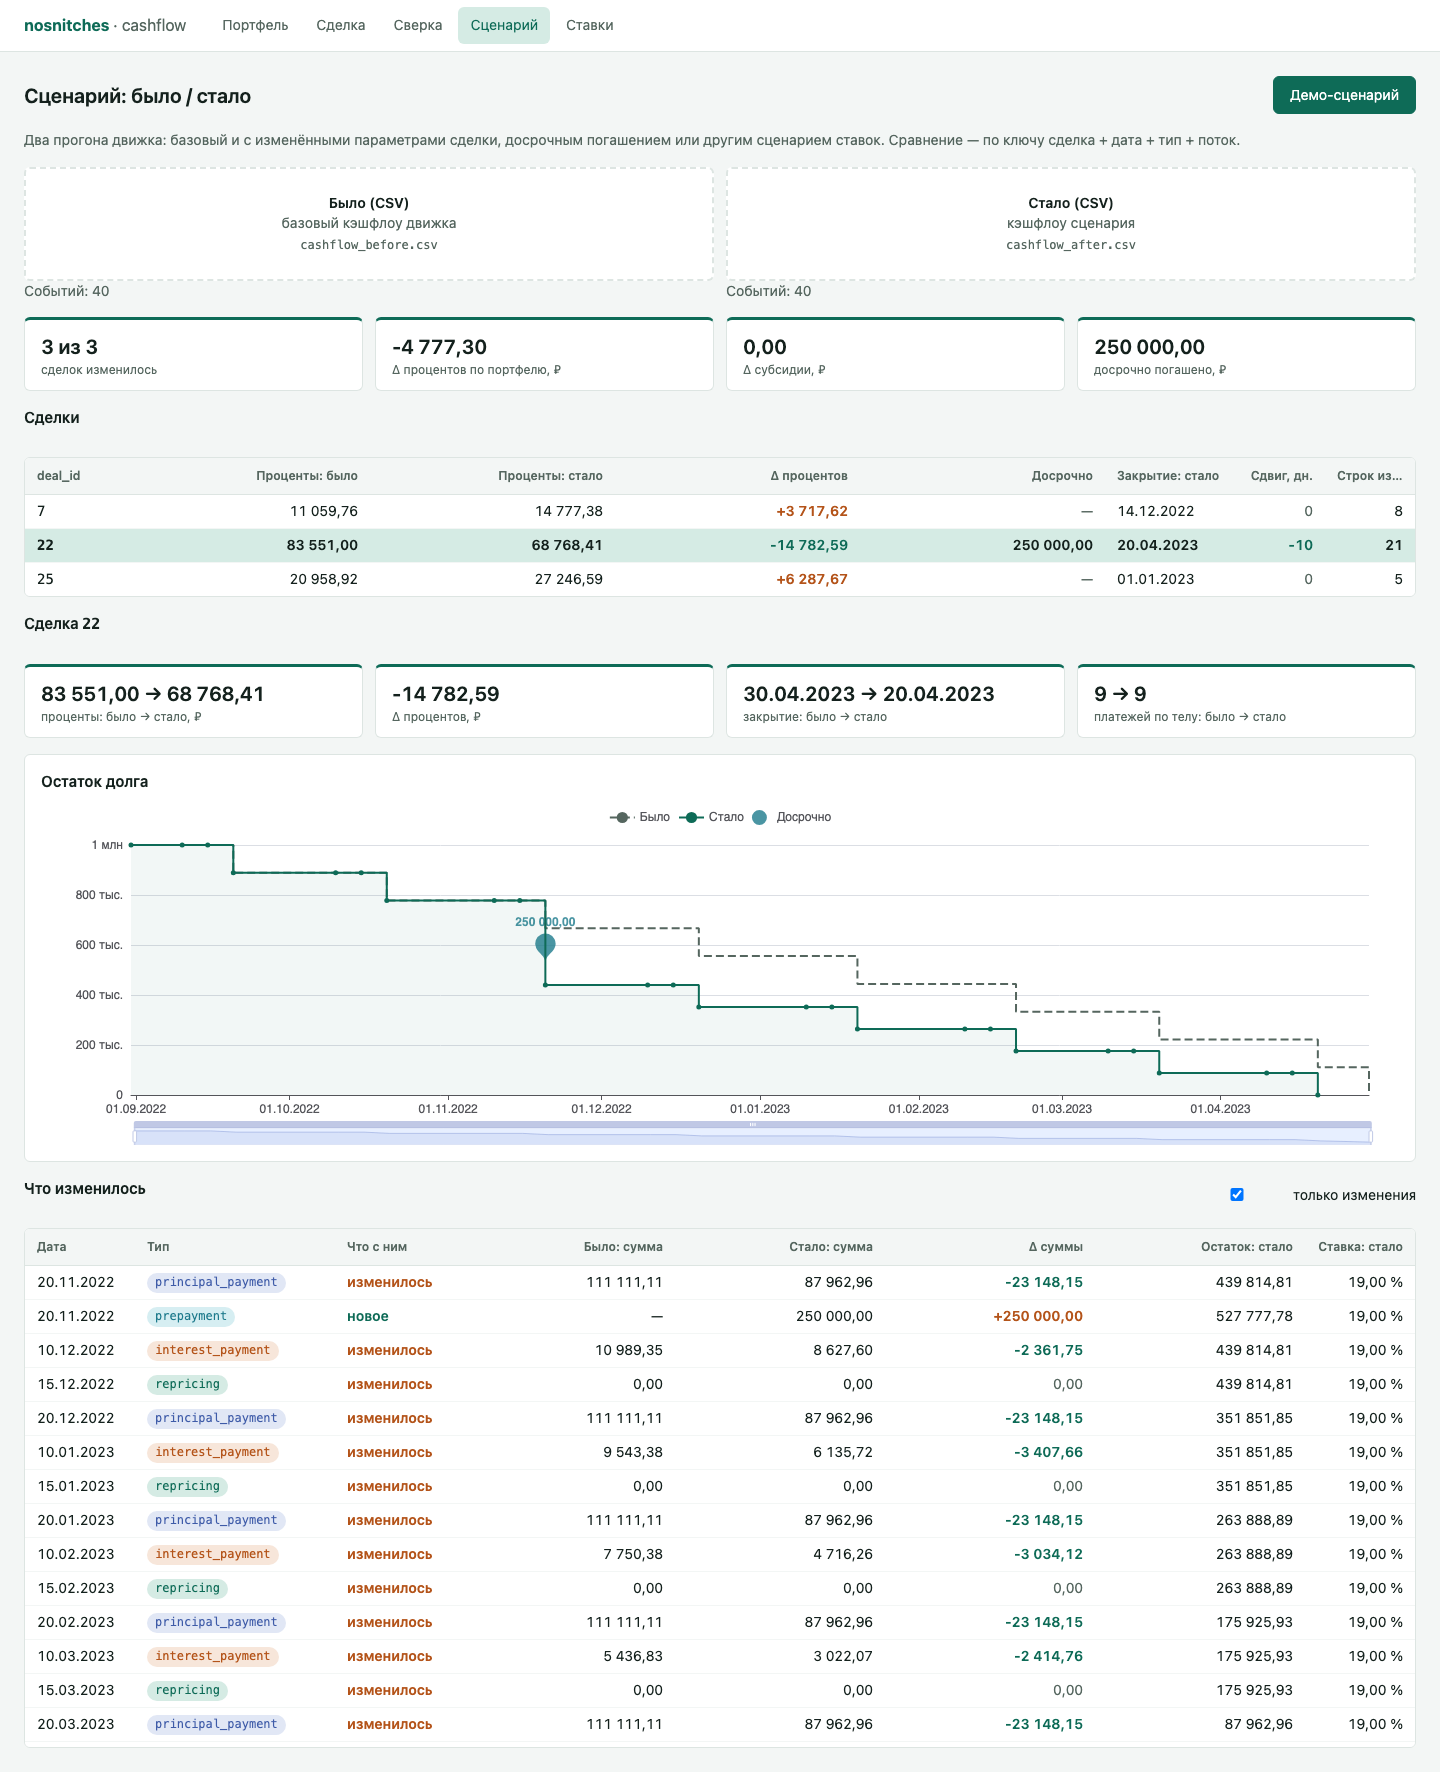
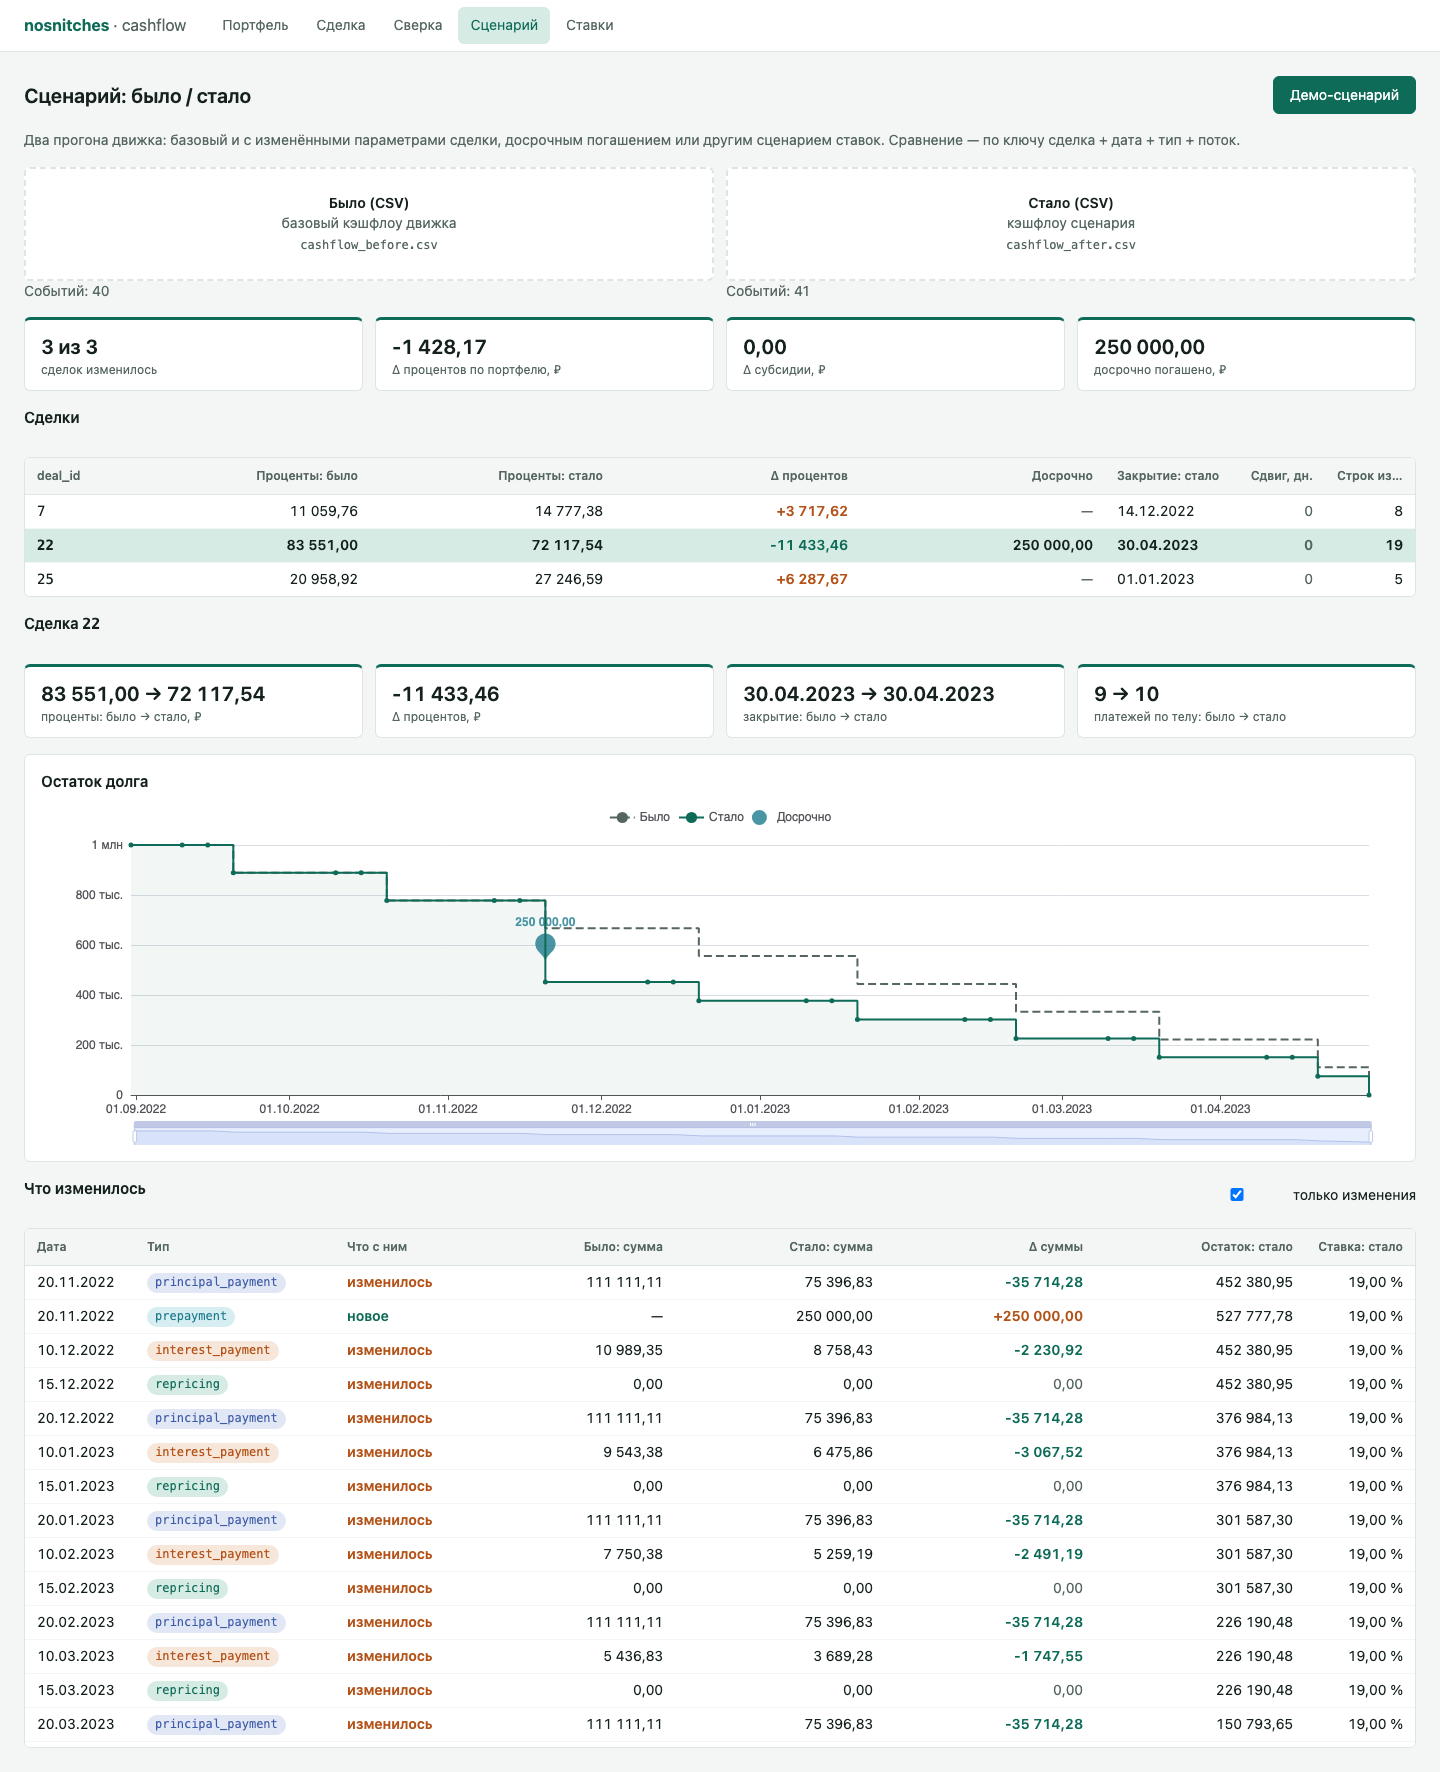
B13: досрочка в плановую дату тела не сокращает график

diff --git a/web/src/scenario/scenario.test.ts b/web/src/scenario/scenario.test.ts
@@ -16,7 +16,8 @@ describe('сценарий «было / стало» (вывод движка)',
   });
 
   it('досрочка по сделке 22 экономит проценты и появляется новой строкой', () => {
-    expect(deal('22').dInterest).toBeCloseTo(68768.41 - 83551.0, 1);
+    expect(deal('22').dInterest).toBeCloseTo(72117.54 - 83551.0, 1);
+    expect(deal('22').closeShiftDays).toBe(0); // закрытие остаётся в дату погашения (B13)
     expect(deal('22').after!.prepayment).toBe(250000);
     const rows = diffRows(
       b.filter((e) => e.deal_id === '22'),
@@ -33,10 +34,12 @@ describe('сценарий «было / стало» (вывод движка)',
   });
 
   it('тело в сумме не меняется: досрочка перераспределяет его по датам', () => {
-    // суммы в CSV округлены до копеек — сумма строк может разойтись на копейку
-    expect(
-      Math.abs(deal('22').after!.principal - deal('22').before!.principal),
-    ).toBeLessThanOrEqual(0.011);
+    // суммы в CSV округлены до копеек: каждая строка тела может дать до полкопейки
+    const d22 = deal('22');
+    const rows = d22.after!.bodyPayments;
+    expect(Math.abs(d22.after!.principal - d22.before!.principal)).toBeLessThanOrEqual(
+      0.005 * rows + 1e-9,
+    );
   });
 
   it('путь остатка заканчивается нулём', () => {

diff --git a/engine/crates/cfcore/src/engine/mod.rs b/engine/crates/cfcore/src/engine/mod.rs
@@ -477,7 +477,9 @@ fn run_timeline(deal: &Deal, rates: &RateBook, cfg: &Config) -> Vec<Event> {
                     accrued = 0.0;
                 }
 
-                let n_rem = principal_future.iter().filter(|d| **d > p).count();
+                // Досрочка идёт раньше планового тела того же дня (порядок событий):
+                // если в дату p ещё будет плановый платёж, он входит в оставшиеся.
+                let n_rem = principal_future.iter().filter(|d| **d >= p).count();
                 if deal.discriminator == Discriminator::Ann && n_rem > 0 {
                     ann_payment = annuity(balance, rate, months, n_rem);
                 } else if deal.discriminator == Discriminator::Rgm && n_rem > 0 {
@@ -889,6 +891,53 @@ mod tests {
 
         let last = events.last().unwrap();
         assert_eq!(last.principal_after, 0.0);
+    }
+
+    #[test]
+    fn prepayment_on_principal_date_keeps_maturity_close() {
+        // Досрочка в плановую дату тела (20-е): RGM и ANN должны закрыться в дату
+        // погашения, а не на период раньше (баг: доля делилась на даты строго после p).
+        for disc in [Discriminator::Rgm, Discriminator::Ann] {
+            let mut dl = deal();
+            dl.discriminator = disc;
+            dl.interest_rate = 0.12;
+            dl.maturity_dttm = d("2023-04-30");
+            dl.regular_payment_rule = PaymentRule {
+                start_dttm: Some(d("2022-01-20")),
+                period_cd: Some(PeriodCd::Months(1)),
+                day_num: Some(20),
+            };
+            dl.prepayment_schedule = vec![(d("2022-11-20"), 250_000.0)];
+
+            let (events, _) = build_cashflow(&dl, &RateBook::new(), &cfg());
+            let close: Vec<&Event> = events
+                .iter()
+                .filter(|e| e.payment_type == PaymentType::ClosePayment)
+                .collect();
+            assert_eq!(close.len(), 1, "{disc:?}");
+            assert_eq!(close[0].payment_dttm, d("2023-04-30"), "{disc:?}");
+            let body: Vec<&Event> = events
+                .iter()
+                .filter(|e| e.payment_type == PaymentType::PrincipalPayment)
+                .collect();
+            assert!(
+                body.iter().all(|e| e.amount > 0.0),
+                "{disc:?}: нулевые платежи тела"
+            );
+            let total: f64 = events
+                .iter()
+                .filter(|e| {
+                    matches!(
+                        e.payment_type,
+                        PaymentType::PrincipalPayment
+                            | PaymentType::Prepayment
+                            | PaymentType::ClosePayment
+                    )
+                })
+                .map(|e| e.amount)
+                .sum();
+            assert!((total - dl.current_principal_amt).abs() < 1e-6, "{disc:?}");
+        }
     }
 
     #[test]

diff --git a/docs/DEMO.md b/docs/DEMO.md
@@ -31,7 +31,7 @@
 | 1 | «Портфель» → **Результат движка: 55 сделок** | Это настоящий вывод движка `cfgen` по 55 тестовым сделкам: кэшфлоу, сделки и errors.csv. 54 сделки посчитаны, остаток в конце у всех ноль. Сделка 32 в долларах отклонена, у семи есть предупреждения — видно прямо в таблице. |
 | 2 | Клик по сделке **32** | У отклонённой сделки нет платежей, зато видно, почему: `UNSUPPORTED_CURRENCY`, валюта USD. |
 | 3 | «Сверка» → **Движок против эталонов** | Сверяем движок на Rust с независимым эталоном аналитика на Python: 13 эталонных сделок, допуск копейка — все зелёные. Остальные 41 сделка эталона не имеют и не сверяются, их проверяют инварианты. |
-| 4 | «Сценарий» → **Демо-сценарий** | Два прогона движка: было и стало. По сделке 22 — досрочка 250 000 ₽: остаток ступенькой уходит вниз, проценты падают на 14 782,59 ₽. По сделке 7 ставка 15 → 20 %, по сделке 25 снят cap — проценты растут. В таблице видно новое событие `prepayment` и каждое изменившееся. |
+| 4 | «Сценарий» → **Демо-сценарий** | Два прогона движка: было и стало. По сделке 22 — досрочка 250 000 ₽: остаток ступенькой уходит вниз, проценты падают на 11 433,46 ₽, закрытие остаётся 30.04.2023. По сделке 7 ставка 15 → 20 %, по сделке 25 снят cap — проценты растут. В таблице видно новое событие `prepayment` и каждое изменившееся. |
 | 5 | «Ставки» → **КС ЦБ из testdata**, **+200 б.п.** | Плавающие ставки считаются от ключевой. На дату расчёта движок знает только историю до 31.08.2022 и держит 8 % (гипотеза H3), стресс сдвигает её на +200 б.п. Серым — что было на самом деле: КС ушла до 21 %, поэтому в спринте 3 подключаем кривые команды 2 — их CSV ложится на этот же график. |
 
 Скриншоты для презентации:

diff --git a/docs/QUESTIONS.md b/docs/QUESTIONS.md
@@ -53,4 +53,4 @@ Q1 (RGM), Q2 (маржа FLOAT), Q3 (субсидия), Q5 (праздники),
 | R1 | В файле сделок появилась необязательная 49-я колонка `prepayment_schedule` (`дата,сумма` через пробел), в контракте её нет | движок, `io.rs` | просмотрщик читает её как необязательную; нужен PR `contract:` |
 | R2 | Событие `prepayment` в один день идёт **перед** `principal_payment`; в контракте порядок для него не задан | движок, `model.rs` | просмотрщик сортирует так же, как движок; закрепить в контракте |
 | R3 | Новое предупреждение `DUPLICATE_PRINCIPAL_IN_MONTH` (правило «не больше одного платежа тела в месяц») | движок | просмотрщик показывает его как обычное предупреждение; описать в методике |
-| R4 | RGM-сделка 22 с досрочкой 20.11.2022 закрывается `close_payment` 20.04.2023 — раньше даты погашения 30.04.2023; контракт и методика (§2.3) требуют последнюю дату тела = дате погашения | движок | похоже на ошибку пересчёта доли тела после досрочки — передано бэкенду |
+| R4 | RGM-сделка 22 с досрочкой 20.11.2022 закрывается `close_payment` 20.04.2023 — раньше даты погашения 30.04.2023; контракт и методика (§2.3) требуют последнюю дату тела = дате погашения | движок | **исправлено (B13)**: досрочка в плановую дату тела делила остаток на даты строго после неё, хотя плановый платёж этого дня ещё впереди |
